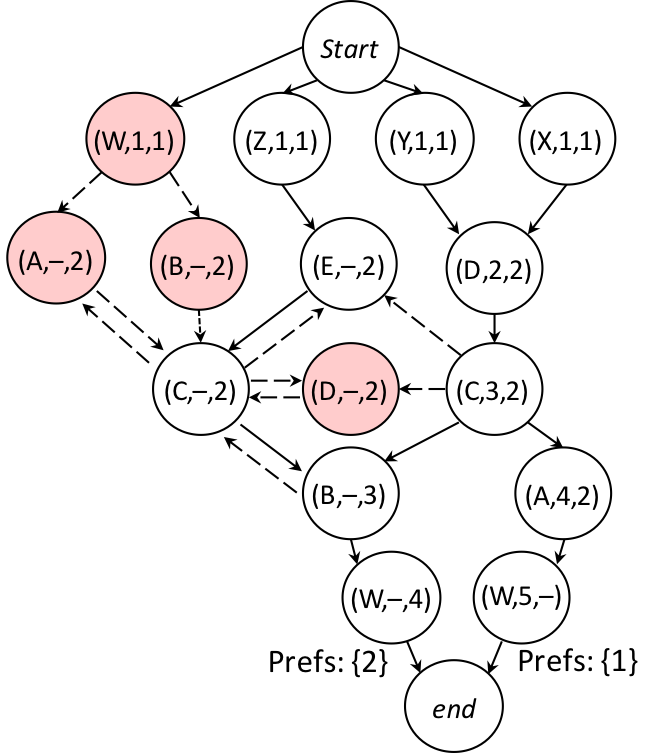
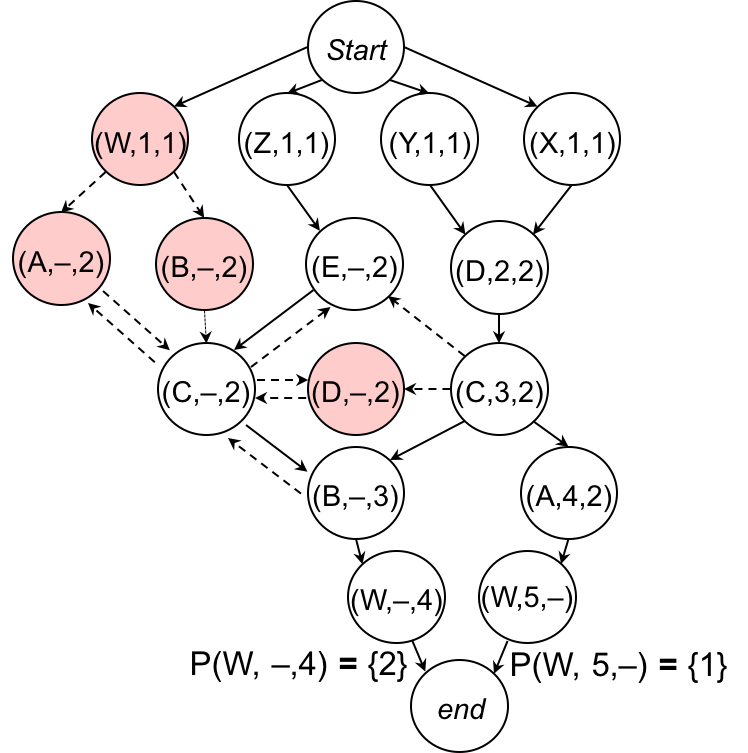
edits for sections 1-4

Changed region(s): [[0.0, 0.0, 0.9726, 1.0], [0.2432, 0.8552, 0.3343, 0.9163], [0.7599, 0.9163, 0.7903, 0.9469]]

diff --git a/paper/v2/paper-edited.tex b/paper/v2/paper-edited.tex
@@ -352,7 +352,7 @@ or bridge the semantic divide between network-wide policies and device-level con
 Thus, they still require operators to
 manually decompose policies into device behaviors.
 
-As a complementary approach, configuration analysis tools can help reduce misconfigurations by checking if low-level configurations match high-level policy~\cite{batfish,feamster+:rcc}. However, such tools too cannot help operators with the challenging task of generating configurations in the first place.
+As a complementary approach, configuration analysis tools can help reduce misconfigurations by checking if low-level configurations match high-level policy~\cite{batfish,feamster+:rcc}. However, such tools cannot help operators with the challenging task of generating configurations in the first place.
 
 %Further, today's tools cannot verify correctness under concrete failure scenarios, rather than under all possible failures.
 
@@ -598,7 +598,7 @@ To implement P2, the operators can assign communities that
 indicate where a certain routing announcement entered the
 network. Then, \CD{R4} must be configured to not announce to
 $\CD{Peer}$ routes that have communities that correspond to the
-\CD{R2}-\CD{Prov} link but to announce routes with communities for the \CD{R2}-\CD{Cust} and \CD{R1}-\CD{Cust} links. A similar policy must be configured for \CD{R2}. Finally, to implement P4 and P5, the operators will have to compute and configure appropriate prefix- and AS-path-based import and export filters at each router.
+\CD{R2}-\CD{Prov} link but to announce routes with communities for the \CD{R2}-\CD{Cust} and \CD{R1}-\CD{Cust} links. A similar policy must be configured for \CD{R2} as well. Finally, to implement P4 and P5, the operators will have to compute and configure appropriate prefix- and AS-path-based import and export filters at each router.
 
 Clearly, it is difficult to correctly configure even this
 small example network manually; correctly configuring real, larger networks can quickly become a nightmare. Such networks have hundreds of neighbors spanning multiple commercial-relationship classes, differing numbers of links to each neighbor, along with several neighbor- or prefix-based exceptions to the default behavior. A large AS with many peers in different geographic locations may be faced with complex challenges such as keeping traffic within national boundaries.
@@ -622,9 +622,9 @@ The operator may implement the policy by having X and Y: $i)$ not export externa
 
 However, this implementation has incorrect behavior in the face of failures. Suppose links X--G and X--H fail. Then, X will hear announcements for \CD{PL*} from C and D, having traversed from G and H to Y to C and D. Per its policy implementation, X will start "leaking" these prefixes externally. Depending on the rationale for local services, this leak could impact security (e.g., if the services are sensitive) or availability (e.g., if the \CD{PL*} prefixes are reused for other services outside of the datacenter). This problem does not manifest without failures because then X has and prefers paths to \CD{PL*} through G and H since they are shorter. A similar problem will occur if links Y--G and Y--H fail.
 %\footnote{A different problem occurs when links X--C and X--D (or Y--C and Y--D) fail. X (Y) may stop announcing the global prefixes because they would be heard through G and H.}
-Link failures in datacenters are frequent and it is not uncommon to have multiple failed links at a given time~\cite{dc-failure-study}.
+Link failures in datacenters are frequent and it is not uncommon to have many failed links at a given time~\cite{dc-failure-study}.
 
-To avoid this problem, the operator may disallow "valley" paths, i.e., those that go up, down, and back up again. This guard can be implemented by $X$ and $Y$ rejecting paths through the other. But that creates a different problem in the face of failures---an aggregation-induced blackhole~\cite{route-aggregation}. If links D--A and X--C fail, X will hear announcements for \CD{PG2} from D and will thus announce \CD{PG} externally. This announcement will bring to X traffic for \CD{PG1} as well, but because valleys are disallowed, X does not have a valid route for \CD{PG1} and will drop all traffic to it.
+To avoid this problem, the operator may disallow "valley" paths, i.e., those that go up, down, and back up again. This guard can be implemented by $X$ and $Y$ rejecting paths through the other. But that creates a different problem in the face of failures---an aggregation-induced blackhole~\cite{route-aggregation}. If links D--A and X--C fail, X will hear an announcement for \CD{PG2} from D and will thus announce \CD{PG} externally. This announcement will bring to X traffic for \CD{PG1} as well, but because valleys are disallowed, X does not have a valid route for \CD{PG1} and will drop all traffic for it despite the fact that a valid path exists through $Y$.
 
 Thus, we see that devising a configuration that ensures policy compliance in the face of failures is complex and error-prone. \sysname lets operators implement their high-level policy specification in a way that guarantees compliance under all failures if possible---otherwise, it generates a compile-time error. For aggregation, it also provides a lower bound to operators on the number of failures under which aggregation will not result in blackholes.
 
@@ -710,7 +710,7 @@ of declarations.
 %\emph{paths} and \emph{policies}.
 For example, to begin specification of the backbone
 network from the previous section, we first express the idea that
-we prefer that traffic leave the network through \CD{R1} over \CD{R2} (to \CD{Cust}) over \CD{Peer} over \CD{Prov} (policy P3 from Figure~\ref{fig:example1}):
+we prefer that traffic leave the network through \CD{R1} over \CD{R2} (to \CD{Cust}) over \CD{Peer} over \CD{Prov} (policy P1 and P3 from Figure~\ref{fig:example1}):
 %\begin{lstlisting}[mathescape=true]
 %define ExitCust = $exit(R_1 \gg R_2)$
 %\end{lstlisting}
@@ -724,7 +724,7 @@ The paths that exit through \CD{R1}
 are preferred (\Prefer) to those that exit through \CD{R2}, which are preferred to those that
 leave through \CD{Peer} and then \CD{Prov}.  As we
 describe in the next section, the \Exit\ predicate, as well as other
-path predicates used later in this section, is simply a shorthand for
+path predicates used later in this section, are simply a shorthand for
 a particular regular expression over paths that is expressible in our policy
 language. The preference operator (\Prefer) is flexible and can be used between constraints as well as among individual routers. For example, the above constraint could have been written equivalently as
 \Exit(\CD{R1}) \Prefer \ldots \Prefer ~\Exit(\CD{Prov})
@@ -783,7 +783,7 @@ First, we create reusable abstractions for describing traffic that transits our 
 \Define cust-transit(X,Y) = \Later(X) \AND \Later(Y)
 \end{code}
 \noindent
-Here we define transit traffic between groups of neighbors $X$ and $Y$ as traffic that enters the network through some neighbor in $X$ or $Y$ and then leaves the network through some neighbor in either $X$ or $Y$. Similarly, we define customer transit for customer $X$ and provider $Y$ as traffic that later goes through both $X$ and $Y$ after leaving our network. Using these two new abstractions, we can now implement policies P2 and P5 with the following constraint.
+Here we define transit traffic between groups of neighbors $X$ and $Y$ as traffic that enters the network through some neighbor in $X$ or $Y$ and then also leaves the network through some neighbor in either $X$ or $Y$. Similarly, we define customer transit for customer $X$ and provider $Y$ as traffic that later goes through both $X$ and $Y$ after leaving our network. Using these two new abstractions, we can now implement policies P2 and P5 with the following constraint.
 
 \begin{code}
 \Define NoTrans =
@@ -836,7 +836,7 @@ This definition says that traffic for prefix \CD{PG1} is allowed to follow only 
 end at router \CD{A}; traffic for \CD{PG2},
 but not \CD{PG1}, must
 end at router \CD{B}; and so on.
-Any traffic destined for a prefix that not a part of the datacenter should be allowed to leave the datacenter and end at some external location, which is otherwise unconstrained.
+Any traffic destined for a prefix that is not a part of the datacenter should be allowed to leave the datacenter and end at some external location, which is otherwise unconstrained.
 The special keyword \Out{} matches any location outside the datacenter network, while the keyword \In{} will match any location inside the network.
 
 For the second constraint, we define another policy:
@@ -1089,7 +1089,7 @@ configurations as needed.
 
 %\para{Syntax}
 The \sysname FE is just a thin layer atop the RIR for describing preference-based path constraints.
-Figure~\ref{fig:rir-syntax} shows the RIR syntax. A policy has one or more constraints, each of which has a test on the type of route, and a corresponding set of preferred regular paths. Regular paths are regular expressions where the base characters are abstract locations---either a router or an AS. Special \In{} and \Out{} symbols refer to any internal or external location respectively. In addition, $\Sigma$ refers to any symbol. We also use the standard regular expressions abbreviation $r^+$ for $r \cdot r^*$, a sequence of one or more occurrences of $r$. Predicates ($t$) consist of logical boolean connectives (and, or, not) as well as tests that match a particular prefix (or group of prefixes) and tests for route advertisments with a particular community value (i.e., an integer value associated with a path).
+Figure~\ref{fig:rir-syntax} shows the RIR syntax. A policy has one or more constraints, each of which has a test on the type of route, and a corresponding set of preferred regular paths. Regular paths are regular expressions where the base characters are abstract locations---either a router or an AS. Special \In{} and \Out{} symbols refer to any internal or external location respectively. In addition, $\Sigma$ refers to any symbol. We also use the standard regular expression abbreviation $r^+$ for $r \cdot r^*$, a sequence of one or more occurrences of $r$. Predicates ($t$) consist of logical boolean connectives (and, or, not) as well as tests that match a particular prefix (or group of prefixes) and tests for route advertisments with a particular community value (i.e., an integer value associated with a path).
 %% For example, the constraint
 %% \[(\textit{prefix}=74.3.28.0/24) \Link \\
 %% (as200 \cdot \In^+) \Prefer (as100 \cdot \In^+)
@@ -1125,7 +1125,7 @@ A key constraint when translating FE to RIR is ensuring that all specified route
 The translation from FE to RIR is based on a set of rewriting rules.
 The first step merges separate constraints. It takes the cross product of per-prefix constraints, where logical conjunction ($a \AND b$) is replaced by intersection on regular constraints ($a \Intersect b$), logical disjunction is replaced by union, and logical negation ($\NOT a$) is replaced by path negation ($\Any \cap \NOT(a)$). The additional constraint $\Any$ ensures the routes are well-formed by restricting the paths to only those that go through the user's network.
 %
-For example, in the datacenter configuration from \S\ref{sec:propane}, combining the \CD{Locality} and \CD{Ownership} policies results in the following RIR:
+For example, in the datacenter FE configuration from \S\ref{sec:propane}, combining the \CD{Locality} and \CD{Ownership} policies results in the following RIR:
 
 %% \begin{lstlisting}[mathescape=true]
 %% $\path{p_{g1}}{any \cap end(A)}$
@@ -1152,7 +1152,7 @@ The next step rewrites the high-level constraints such as $\Enter$ according to 
 \end{array}
 \]
 %
-where $\odot$ stands for an arbitrary regular binary operator, and $x$ is a policy with a single preference. The compiler flags as invalid preferences nested under a unary operator (i.e., \textit{star} or \textit{negation}).
+where $\odot$ stands for an arbitrary regular binary operator, and $x$ is a policy with a single preference. The compiler flags preferences nested under a unary operator (i.e., \textit{star} or \textit{negation}) as invalid.
 
 
 
@@ -1186,6 +1186,9 @@ where $\odot$ stands for an arbitrary regular binary operator, and $x$ is a poli
     \transition{4}{5}{W}{}
   \end{tikzpicture}
 
+  \vspace*{0.5em}
+
+
   \begin{tikzpicture}[>=stealth',shorten >=1pt,auto,node distance=1.6cm]
     \state{0}{$0$}{              }{}
     \state{1}{$1$}{right of=0}{}
@@ -1209,7 +1212,7 @@ where $\odot$ stands for an arbitrary regular binary operator, and $x$ is a poli
   \hdr{Product Graph IR}{}
   \vspace*{-1\baselineskip}
   %
-  \includegraphics[width=.65\columnwidth]{figures/productgraph}
+  \includegraphics[width=.8\columnwidth]{figures/productgraph}
   \end{minipage}
 
   \hrulefill
@@ -1243,8 +1246,12 @@ edges $E' \colon V' \times V'$,
 a unique starting vertex $s$,
 a unique ending vertex $e$,
 and a preference function $P \colon V' \rightarrow 2^{\set{1, \dots, j}}$ , which maps nodes in the product graph to a set of preference ranks.
-For a PGIR vertex $v' = (v, \dots) \in V'$, we say $loc(v') = v$, which indicates that the corresponding topology location for $v'$ is $v$.
-Two nodes $x$ and $y$ \emph{shadow} each other in the product graph when $x \in V'$ and $y \in V'$ and $loc(x) = loc(y)$.
+For a PGIR vertex $v_1 = (v, \dots) \in V'$, we say $loc(v_1) = v$, which indicates that the corresponding topology location for $v_1$ is $v$.
+
+%
+We say that a PGIR node $x_1$ is a \emph{shadow} of topology location $x$ when $x_1 \in V'$ and $loc(x_1) = x$.
+%
+%Throughout the remainder of the paper, we will use metavariables without subscripts such as $x$ to represent topology locations, and we will use similar metavariables with subscripts such as $x_1$ or $x_2$ to represent shadows of $x$ (i.e., PGIR nodes for location $x$).
 
 \para{From RIR To PGIR}
 
@@ -1256,7 +1263,7 @@ Additionally, we add edges from the start node $s$ to any $v = (x, a_1, \dots, a
 %
 The preference function $P$ for node $v = (x, a_1, \dots, a_m)$ is defined as $P(v) = \set{i~\vert~a_i \in F_i} $. That is, it records which preferences are achieved from each policy automaton for every node in the product construction.
 %
-Finally, there is an edge from each node in the PGIR such that $P(v) \neq \emptyset$ to the special end node $e$. We write $(x \leq_{rank} y)$ if either $P(x) = P(y) = \emptyset$ or $min ~ P(x) \leq min ~ P(y)$, which means that paths ending at PGIR node $x$ are better than (lower rank) than paths that ending at $y$.
+Finally, there is an edge from each node in the PGIR such that $P(v) \neq \emptyset$ to the special end node $e$. We write $(x \leq_{rank} y)$ if either $P(x) = P(y) = \emptyset$ or $min ~ P(x) \leq min ~ P(y)$, which means that paths ending at PGIR node $x$ are better (lower rank) than paths ending at $y$.
 
 
 Intuitively, PGIR tracks the policy states of each automaton as route announcements move between locations.
@@ -1286,7 +1293,7 @@ The precision of the failure-safety analysis often increases when nodes and edge
 
 We use graph dominators~\cite{tarjan-dominance} as a cheap approximation for removing many nodes and edges in the PGIR that are never on any \emph{simple} (loop free) path between the start and end nodes.
 In the PGIR, a node $x$ dominates a node $y$ if $x$ appears on every path leading from the start node to $y$. Similarly, a node $x$ post-dominates a node $y$ in the PGIR if $x$ appears on every path from $y$ to the end node.
-We can safely remove nodes and edges in the PGIR when any of the following conditions hold, where $x$, $x'$ and $y$, $y'$ refer to PGIR nodes that shadow each other:
+We can safely remove nodes and edges in the PGIR when any of the following conditions hold, where $x$, $x'$ and $y$, $y'$ refer to PGIR nodes that are shadows of the same topology location.
 \begin{itemize}
 \setlength{\itemsep}{1pt}
 \setlength{\parskip}{0pt}
@@ -1297,23 +1304,11 @@ We can safely remove nodes and edges in the PGIR when any of the following condi
 \item Remove edge ($x$, $y$) if $y$ is post-dominated by some $x'$
 \item Remove edge ($x$, $y$) if $x$ is dominated by some $y'$
 \end{itemize}
-%We can safely remove any PGIR node or edge as long as it never appears on any \emph{simple} path from the \textit{start} node to the \emph{end} node.
-For example, node $(W,1,1)$ in Figure~\ref{fig:example-compilation} can be removed since it is never on a simple path to the end node because it must always go through node $(W,-,4)$. That is, node $(W,-,4)$ post-dominates node $(W,1,1)$. We repeatedly apply the minimizations above to the PGIR until no further minimization is possible.
+For example, node $(W,1,1)$ in Figure~\ref{fig:example-compilation} is removed since it is never on a simple path to the end node because the path must always go through node $(W,-,4)$. That is, node $(W,-,4)$ post-dominates node $(W,1,1)$ and both shadow topology location $W$. 
+Similarly, the edge from $(C,3,2)$ to $(D,-,2)$ is removed since node $(C,-,2)$ post-dominates $(D,-,2)$ and shadows the same topology location $C$. 
+We repeatedly apply the minimizations above until no further minimization is possible.
 In the example of Figure~\ref{fig:example-compilation}, colored nodes and dashed edges are removed after minimization.
- %since they are irrelvant to the BGP decision process.
-%
-%Although fully minimizing this graph is an NP-complete problem,  a simple and efficient algorithm based on graph dominators achieves largely the same effect, greatly simplifying the failure safety analysis.
 
-%A node $x$ dominates $y$ if $x$ appears on every path leading to $y$ from a source node. Many efficient algorithms exist for finding graph dominators~\ref{bib:todo}. For minimization, we compute the dominator set for each node in both the product graph $G$ with respect to the start node, and in the reversed product graph $G^R$ with respect to the end node. The following rules enable efficient minimization of the product graph.
-%
-%\begin{itemize}
-%  \item Remove nodes that never reach the end node
-%  \item Remove nodes not reachable from the $start$ node
-%  \item Remove any node $x$ such that $x$ is dominated by $y$ in $G$ or $G^R$, and $loc(x) = loc(y)$
-%  \item Remove any edge from $x$ to $y$ in $G$ or $G^R$ if there is some node $z$ dominated by $y$ such that $loc(x) = loc(z)$
-%\end{itemize}
-%
-%Repeated application of the above rules leads to removing the colored nodes and dashed lines in Figure~\ref{fig:example-compilation}.
 
 \subsection{Failure-safety analysis}
 
@@ -1534,21 +1529,6 @@ After configuration generation, the compiler further processes the ABGP policy, 
   \vspace{-1em}
 \end{figure}
 
-<<<<<<< b2ae169888974095d80e74e7ed519ae41ee009ff
-\para{From PGIR to ABGP}
-
-Once we have the ordering on node preferences in the PGIR from the failure safety analysis, the translation to ABGP is straightforward. The idea is to encode the state of the automata using BGP community values. Each router will match based on its peer and a community value corresponding to the state of the PGIR, and then update the state before exporting to the neighbors permitted by the PGIR. For example, router $A$ in Figure~\ref{fig:example-compilation} will allow an announcement from $C$ with a community value for state $(3,2)$ (and deny anything else). If it sees such an announcement, it will remove the old community value, and add a new one for state $(4,2)$ before exporting it to $W$.
-
-To ensure preferred paths are always obtained, for each router $r$ in the topology, the compiler sets a higher local preference for neighbors of a more-preferred node for $r$ in the PGIR. For example, $C$ will prefer an advertisement from $D$ in state $(2,2)$ over an advertisement from $E$ in state $(-,2)$.
-
-Since the compiler can control community tagging only for routers under the control of the AS being programmed, it cannot match on communities for external ASes. Instead, it translates matches from external ASes into a BGP regular expression filter. For example, node $D$ in Figure~\ref{fig:example-compilation} would match the single hop external paths $X$ or $Y$. In general, if routes are allowed from beyond $X$ or $Y$, these will also be captured in the BGP regular expression filters. The unknown AS topology is modelled as a special node in the PGIR that generates a filter to match any sequence of ASes.
-
-Finally, the external AS $W$ should prefer our internal router $A$ over $B$. In general, it is not possible to reliably control traffic entering the network beyond certain special cases. In this example, however, assuming our network and $W$ have an agreement to honor MEDs, the MED attribute can influence $W$ to prefer $A$ over $B$. Additionally, the compiler can use the BGP no-export community to ensure that no other AS beyond $W$ can send us traffic. The compiler can perform a simple analysis to determine when it can utilize BGP special attributes to ensure traffic enters the network in a particular way by looking at links in the product graph that cross from the internal topology to the external topology.
-%Aggregation is another tool commonly used to influence how traffic can enter the network, by relying on BGP's longest prefix matching default. Since aggregates are provided as additional user constraints, the compiler can also make use of this information to check that incoming preferences can be met given the aggregates specified (e.g., to ensure that all external ASes prefer to enter from one location over another).
-Figure~\ref{fig:abgp-config} shows the full configuration from the compilation example.
-
-After configuration generation, the compiler further processes the ABGP policy, removing community tags when possible, combining filters, removing dead filters, and so on. In the compilation example, all community tags can be removed since there is never any ambiguity based on the router importing the route, and the neighbor from which the route is being imported. Similarly, after removing the communities, the two rules at router $B$ are merged into a single rule.
-
 
 %=====================================================
 %
@@ -1557,6 +1537,7 @@ After configuration generation, the compiler further processes the ABGP policy, 
 %
 %
 %=====================================================
+
 
 \section{Implementation}
 \label{sec:implementation}
@@ -1567,7 +1548,7 @@ Our compiler includes the following features that improve its performance and us
 
 \para{Efficient PGIR construction}
 
-Constructing automata for extended regular expressions (i.e., those that include negation and intersection) are known to have high complexity~\cite{regex-complexity}. The \sysname compiler uses regular expressions derivatives~\cite{regex-derivatives} with character classes to construct deterministic automata for extended regular expressions over large alphabets efficiently. Since regular expressions are defined over a finite alphabet, and since much of the AS topology is unknown, we set the alphabet to include all uniquely referenced external ASes in the policy. Similarly, to model the unknown external AS topology beyond immediate peers, we include a special topology node to represent any unknown location.
+Constructing automata for extended regular expressions (i.e., regular expressions with negation and intersection operations) is known to have high complexity~\cite{regex-complexity}. The \sysname compiler uses regular expressions derivatives~\cite{regex-derivatives} with character classes to construct deterministic automata for extended regular expressions over large alphabets efficiently. Since regular expressions are defined over a finite alphabet, and since much of the AS topology is unknown, we set the alphabet to include all uniquely referenced external ASes in the policy. Similarly, to model the unknown external AS topology beyond immediate peers, we include a special topology node to represent any unknown location.
 %
 Rather than construct the product graph in full, our implementation prevents exploring parts of the graph when no accepting state is reachable in any of the corresponding regular automata during construction.
 
@@ -1583,6 +1564,7 @@ When computing local preferences and ensuring failure safety, as described in \S
 
 The naive code generation algorithm described in \S\ref{sec:compilation} is extremely memory inefficient since it generates a separate match-export pair for every unique in edge/out edge pair for every node in the product graph before minimization. Our implementation performs partial minimization during generation by recognizing common cases such as when there is no restriction on exporting to or importing from neighbors.
 
+
 \begin{figure}
   \subcaptionbox{Datacenter}
     {\includegraphics[width=.49\columnwidth]{figures/compilation-times-dc.png}}
@@ -1591,6 +1573,7 @@ The naive code generation algorithm described in \S\ref{sec:compilation} is extr
   \caption{Compilation time. \label{fig:compilation-times}}
   \vspace{-1em}
 \end{figure}
+
 
 \para{Checking policy correctness}
 
@@ -1616,6 +1599,7 @@ Even when programming the network centrally, it is possible for operators to mak
   \caption{Configuration minimization. \label{fig:config-min}}
   \vspace{-1em}
 \end{figure}
+
 
 \section{Evaluation}
 \label{sec:evaluation}
